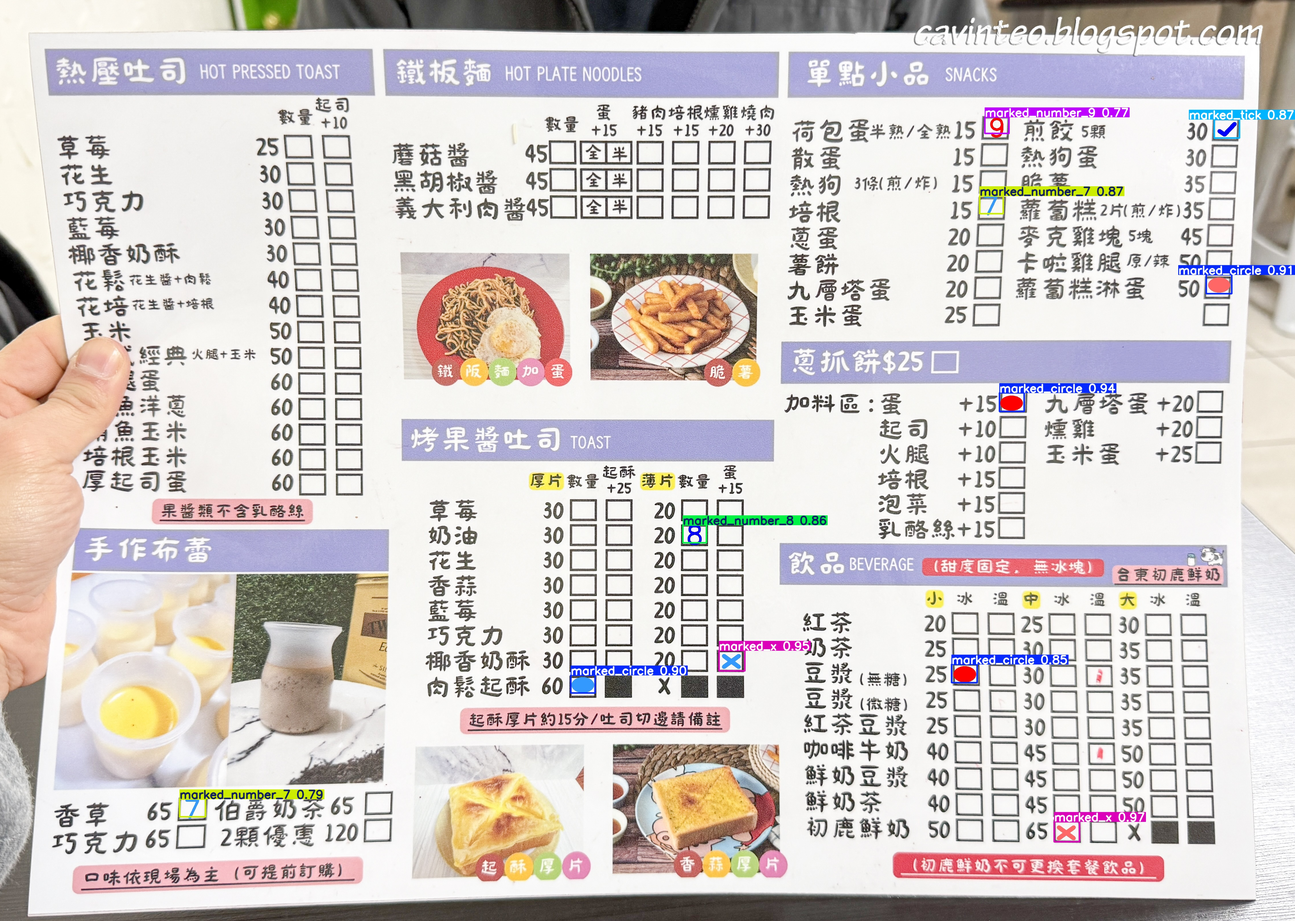
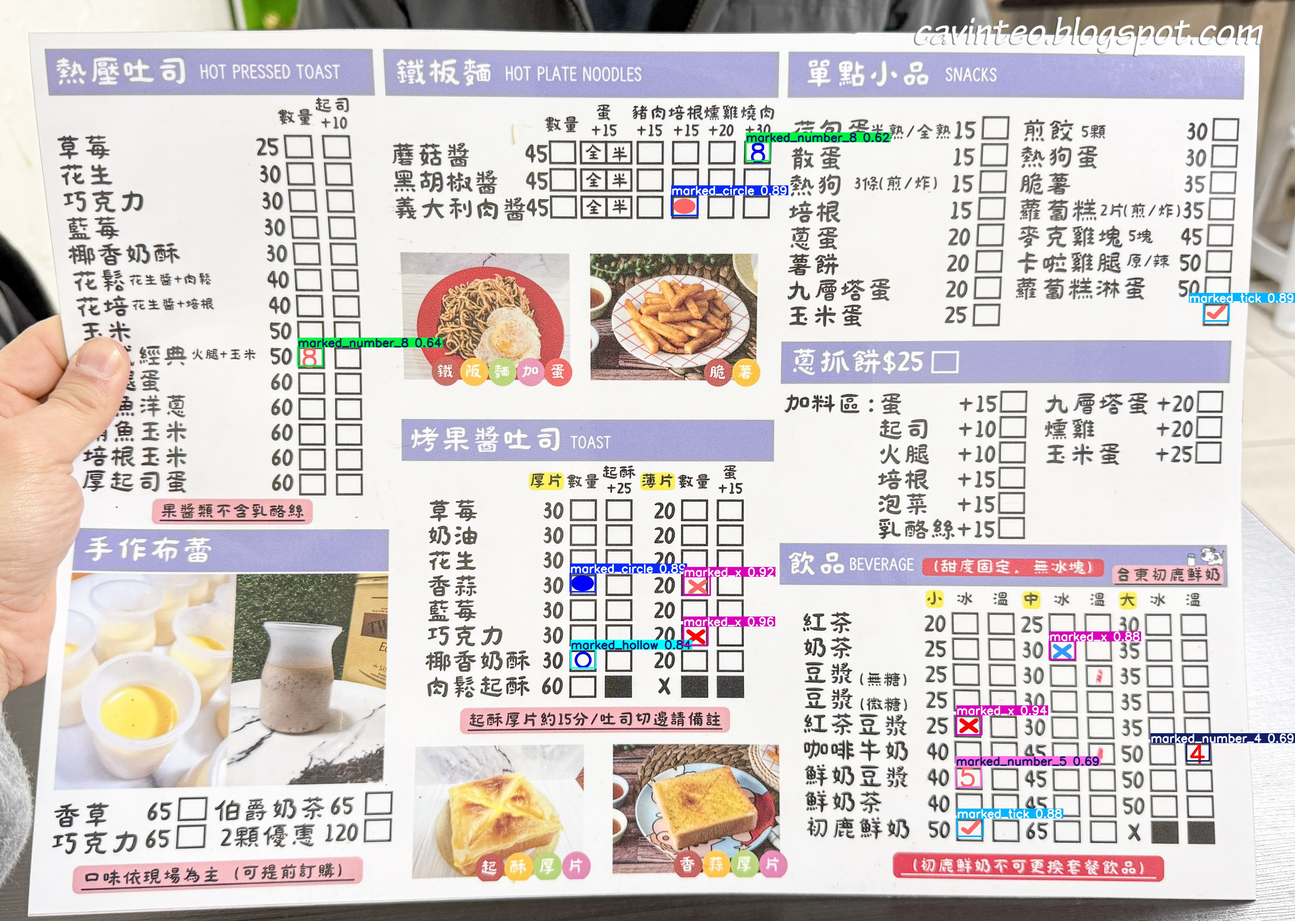
new

diff --git a/test_model.py b/test_model.py
@@ -54,10 +54,10 @@ except Exception as e:
     raise SystemExit("ultralytics is required. Install with: pip install ultralytics") from e
 
 INFER_WEIGHTS = "multiclass_new.pt"          
-TEST_IMAGE = "test_mixed_sign_dataset/images/test_img_sample_2.jpg"
+TEST_IMAGE = "test_mixed_sign_dataset/images/test_img_sample_7.jpg"
 OUTDIR = "runs/infer"
 IMGSZ = 1280
-CONF = 0.5
+CONF = 0.6
 
 def extract_quantity(class_name):
     """Extract order quantity from detected mark"""
